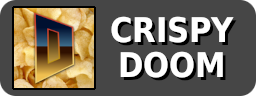
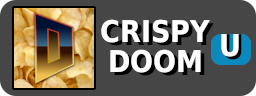
Name change to "Crispy Doom U"! Plus small updates

Changed region(s): [[0.375, 0.1562, 1.0, 0.8438]]

diff --git a/src/wiiu/config.h b/src/wiiu/config.h
@@ -96,17 +96,20 @@
 /* Define to the full name of this package. */
 #define PACKAGE_NAME "Crispy Doom"
 
+/* Version number of package */
+#define VERSION "5.10.3"
+
 /* Define to the full name and version of this package. */
-#define PACKAGE_STRING "Crispy Doom 5.10.1"
+#define PACKAGE_STRING PACKAGE_NAME " " VERSION
 
 /* Define to the one symbol short name of this package. */
-#define PACKAGE_TARNAME "crispy-doom"
+#define PACKAGE_TARNAME PACKAGE
 
 /* Define to the home page for this package. */
 #define PACKAGE_URL ""
 
 /* Define to the version of this package. */
-#define PACKAGE_VERSION "5.10.1"
+#define PACKAGE_VERSION VERSION
 
 /* Change this when you create your awesome forked version */
 #define PROGRAM_PREFIX "crispy-"
@@ -116,8 +119,5 @@
    backward compatibility; new code need not use it. */
 #define STDC_HEADERS 1
 
-/* Version number of package */
-#define VERSION "5.10.1"
-
 // TODO: Be able to change this rather than being a macro
-#define HOMEBREW_APP_PATH "wiiu/apps/crispy-doom"
+#define HOMEBREW_APP_PATH "wiiu/apps/crispy-doom-u"

diff --git a/src/wiiu/wiiu_controller.c b/src/wiiu/wiiu_controller.c
@@ -246,11 +246,15 @@ void WiiU_PollJoystick()
     read_vpad();
     read_wpad();
 
+    // TODO: Properly implement gyro and make it mappable
+    /*
     if (buttons & (1 << 8))
     {
         rStickX += gyroX;
         rStickY += gyroY;
     }
+    */
+
     stickX = CLAMP(stickX, -0x7ff0, 0x7ff0);
     stickY = CLAMP(stickY, -0x7ff0, 0x7ff0);
     rStickX = CLAMP(rStickX, -0x7ff0, 0x7ff0);

diff --git a/src/wiiu/wiiu_launcher_nowads.c b/src/wiiu/wiiu_launcher_nowads.c
@@ -48,7 +48,7 @@ void launcherNoWadsUpdate()
 
 void launcherNoWadsDraw(OSScreenID screenID)
 {
-    OSScreenPutFontEx(screenID, 0, 0, "Crispy Doom");
+    OSScreenPutFontEx(screenID, 0, 0, "Crispy Doom U");
 
     OSScreenPutFontEx(screenID, 5, 2, "No WAD files found!");
     OSScreenPutFontEx(screenID, 5, 3, "Put your WADs in: sd:/" HOMEBREW_APP_PATH "/wads");

diff --git a/src/wiiu/wiiu_launcher_main.c b/src/wiiu/wiiu_launcher_main.c
@@ -184,7 +184,7 @@ void launcherMainUpdate()
 
 void launcherMainDraw(OSScreenID screenID)
 {
-    OSScreenPutFontEx(screenID, 0, 0, "Crispy Doom");
+    OSScreenPutFontEx(screenID, 0, 0, "Crispy Doom U");
 
     if (selectedWadsCount == 0)
     {

diff --git a/README.md b/README.md
@@ -1,15 +1,15 @@
-# Crispy Doom Wii U Port
+# Crispy Doom U
 ![Screenshot of game in Wii U Gamepad](wiiu/CrispyWiiUScreenshot.png)
 
-This is a Wii U port of [Crispy Doom](https://www.chocolate-doom.org/wiki/index.php/Crispy_Doom). It is possible thanks to the amazing efforts of the Crispy/Chocolate Doom authors, devkitPro, and the team that ported SDL2 to the Wii U. Without these people, this port would be a lot harder to make :)
+Crispy Doom U is a Wii U port of [Crispy Doom](https://www.chocolate-doom.org/wiki/index.php/Crispy_Doom). It is possible thanks to the amazing efforts of the Crispy/Chocolate Doom authors, devkitPro, and the team that ported SDL2 to the Wii U. Without these people and more, this port would have been a lot harder to make, or not happened at all!
 
 ## Download
-Download the Wii U port of Crispy Doom on the [Releases](https://github.com/thearst3rd/crispy-doom/releases) page.
+Download Crispy Doom U on the [Releases](https://github.com/thearst3rd/crispy-doom-u/releases) page.
 
-To install, extract the release's contents into `sd:/wiiu/apps/crispy-doom` (this is hard coded for now) and put your limit removing WADs in `sd:/wiiu/apps/crispy-doom/wads`. If you do not have any Doom WADs, check out the free [shareware version of Doom](https://www.doomworld.com/classicdoom/info/shareware.php), or check out the amazing [Freedoom project](https://freedoom.github.io/)!
+To install, extract the release's contents into `sd:/wiiu/apps/crispy-doom-u` (this is hard coded for now) and put your limit removing WADs in `sd:/wiiu/apps/crispy-doom-u/wads`. If you do not have any Doom WADs, check out the free [shareware version of Doom](https://www.doomworld.com/classicdoom/info/shareware.php), or check out the amazing [Freedoom project](https://freedoom.github.io/)!
 
 ## Features
-* Up to date with Crispy Doom 5.10.1 (up to commit [c072715](https://github.com/fabiangreffrath/crispy-doom/commit/c072715483a55161ef586819cf68ad89198a3aa4))
+* Up to date with Crispy Doom 5.10.3 (up to commit [99ca747](https://github.com/fabiangreffrath/crispy-doom/commit/99ca74732d617e98893bb6d9294330889e57efef))
 * Very high feature parity with the PC version, full Crispy menu intact (other than things not relevant to a Wii U release)
 * Smooth analog control support - both moving and turning make use of the analog values of the analog sticks
 * Simple launcher that lets you pick an IWAD and optionally PWADs
